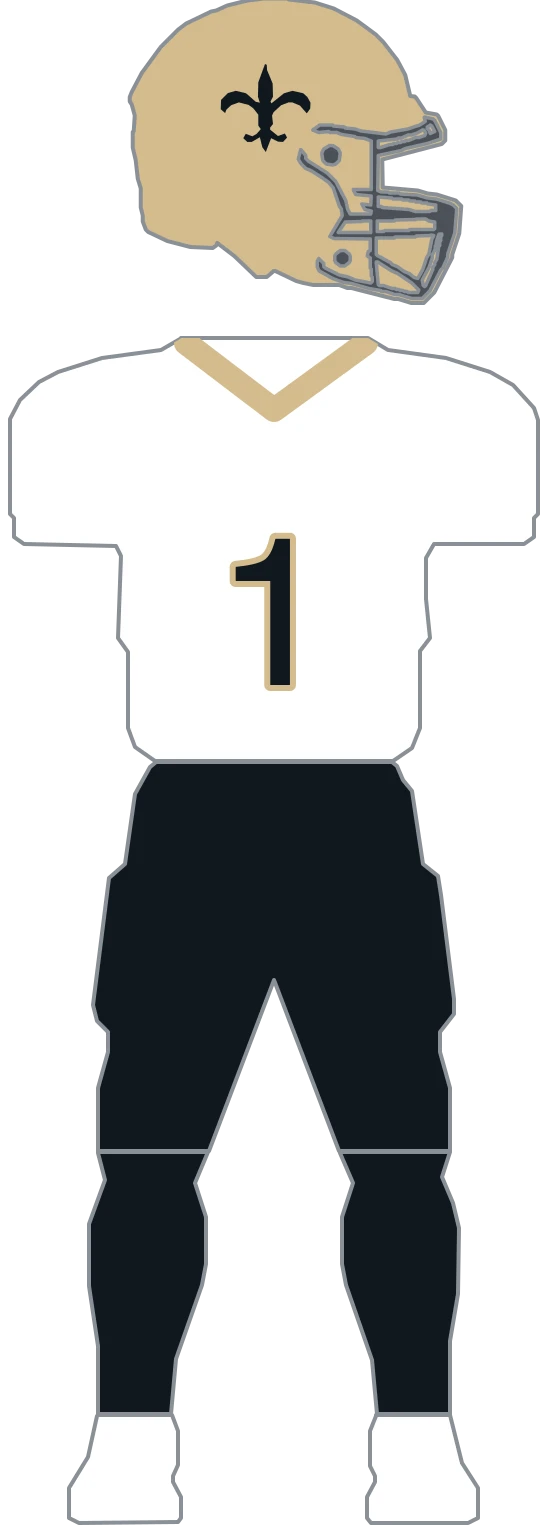
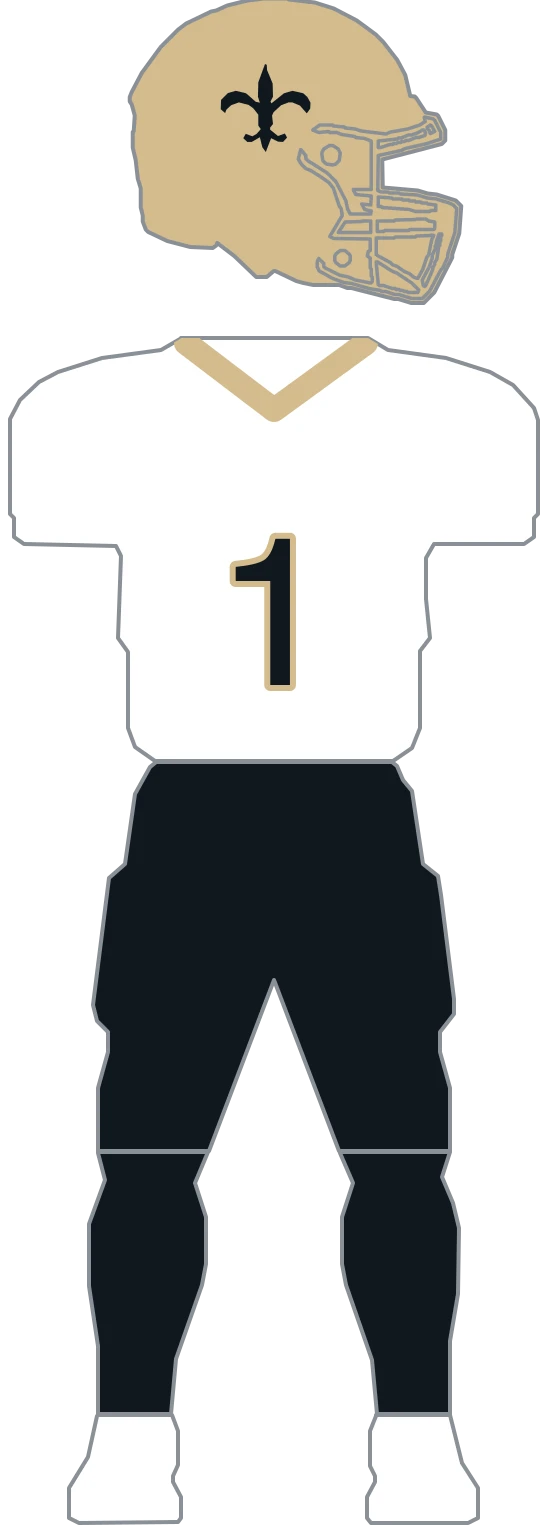
feat(uniforms): migrate Saints to composable parts and set its gold facemask (#679)
The construction is unusually spare: no sleeve bands, no shoulder yoke, no
pant stripe — what carries the uniform is a bold gold V-collar, gold numerals,
and the black fleur-de-lis on the shell. The three kits combine only two
jerseys and two pants: home and color-rush both wear a BLACK body (home over
gold pants, color-rush over black), and away is the white body (over black).
Parts express that: 1 helmet (H1 gold shell + fleur), 2 jerseys (J1 black, J2
white), 2 pants (P1 gold, P2 black), matching the measured target. Gold is the
shell/body color carried in different primary/secondary/accent slots per row;
parts name those from a team palette.

The migration's parity gate proved all 9 saints rasters (3 kits x 2 variants)
byte-identical against the flat definition, then the flat definition and its
builder helpers were deleted and the team removed from MIGRATED, per the
one-time-proof lifecycle (depth#660).

Facemask follows the parts migration per phase order: the gold shell wears a
gold cage (named sources; GUD cannot separate a gold cage from the gold shell,
so the named source and the team's gold #D3BC8D are the source of truth). Only
the three -full rasters move, each change confined to its helmet region
(verified pixel-diffed).

Changed region(s): [[0.5768, 0.0612, 0.8196, 0.1837], [0.5464, 0.0919, 0.6071, 0.1225], [0.7286, 0.1837, 0.7589, 0.2143]]

diff --git a/lib/uniforms/teams/saints.ts b/lib/uniforms/teams/saints.ts
@@ -1,18 +1,13 @@
-import type { ColorRef, TeamUniformDefinition, UniformLayer } from './types';
-
-// New Orleans' three archived kits, redrawn from the Gridiron Uniform Database 2025 composite in
-// nfl-uniform-refs/saints (the black-over-gold home is that sheet's figures 5-6).
-//
-// The construction is unusually spare: no sleeve bands, no shoulder yoke, no pant stripe on the
-// home kit. What carries the uniform is a bold gold V-collar and gold numerals, so every kit here
-// strips the generic model down to that collar.
+// New Orleans' construction geometry — the fleur-de-lis path and the collar-width constant
+// only. The composable parts definition that consumes them lives in ./saints.parts.ts; the former
+// flat SAINTS_UNIFORMS was deleted in the migration that proved parts render byte-identically (see
+// parts-parity.test.ts for the one-time gate).
 
 // The fleur-de-lis, traced from the home figure's shell (bbox x59-165, y74-171 in the reference)
-// mapped onto the raw helmet space at ~6.25x. This module previously claimed the mark was too fine
-// to trace; that was wrong. It is a solid black shape and traces cleanly — what is genuinely too
-// fine is the white line the reference draws INSIDE it, which is barely two px and has no
-// separable predicate. So the shape is authored as one solid fill with that line dropped, which at
-// swatch size is indistinguishable and at 4x reads as a slightly bolder fleur.
+// mapped onto the raw helmet space at ~6.25x. It is a solid black shape and traces cleanly — what
+// is genuinely too fine is the white line the reference draws INSIDE it, which is barely two px
+// and has no separable predicate. So the shape is authored as one solid fill with that line
+// dropped, which at swatch size is indistinguishable and at 4x reads as a slightly bolder fleur.
 export const SAINTS_DECAL_PATH =
   'M409.8,196.2 L413.0,197.5 L413.6,208.1 L424.8,235.1 L425.5,261.5 L420.5,270.9 L422.3,274.7 L447.4,254.6 L464.2,249.6 L486.1,254.6 L494.3,262.1 L500.5,273.4 L499.9,285.4 L493.0,294.8 L479.3,279.1 L464.2,272.8 L456.7,272.8 L441.7,278.5 L426.7,292.3 L423.6,299.2 L425.5,316.1 L419.8,323.0 L419.8,327.4 L435.5,340.0 L449.2,335.0 L453.6,343.1 L445.5,351.9 L435.5,351.3 L421.7,344.4 L411.1,372.0 L404.2,362.6 L399.2,342.5 L382.9,351.9 L374.2,351.9 L366.0,344.4 L371.0,335.6 L384.2,340.6 L392.9,335.6 L401.1,326.2 L396.1,319.3 L396.1,297.3 L386.1,284.7 L376.7,277.8 L357.3,272.8 L341.7,278.5 L332.3,287.3 L329.8,294.2 L321.0,286.6 L321.6,267.8 L335.4,254.0 L351.0,249.6 L371.7,254.6 L391.1,271.6 L399.2,273.4 L395.4,261.5 L396.1,232.6 L409.2,196.8 Z';
 
@@ -24,77 +19,3 @@ export const SAINTS_WHITE = '#FFFFFF';
 // whose jersey spans 186 to a 241 sleeve hem, which is about 24 units in mannequin space — nearly
 // twice the generic chevron's 13.
 export const SAINTS_COLLAR_WIDTH = 24;
-
-const COLLAR_PATH = 'M206,388 L294,455 L386,388';
-const GENERIC_STRIPPED = [
-  'generic-helmet-stripe',
-  'generic-sleeve-yoke-left',
-  'generic-sleeve-yoke-right',
-  'generic-sleeve-stripe-left',
-  'generic-sleeve-stripe-right',
-  'generic-collar',
-  'generic-pants-stripe-left',
-  'generic-pants-stripe-right',
-];
-
-function collar(stroke: ColorRef): UniformLayer[] {
-  return [
-    {
-      id: 'saints-collar',
-      surface: 'collar',
-      d: COLLAR_PATH,
-      clip: true,
-      kind: 'stroke',
-      stroke,
-      strokeWidth: SAINTS_COLLAR_WIDTH,
-    },
-  ];
-}
-
-// The fleur is black on every kit; only which token carries black moves with the palette.
-function decal(fill: ColorRef): UniformLayer[] {
-  return [
-    {
-      id: 'saints-decal',
-      surface: 'helmet',
-      d: SAINTS_DECAL_PATH,
-      clip: true,
-      kind: 'fill',
-      fill,
-    },
-  ];
-}
-
-export const SAINTS_UNIFORMS: TeamUniformDefinition = {
-  teamId: 'saints',
-  kits: {
-    // ESPN gives New Orleans color=old gold / alternateColor=black. `isNeutral(black)` is true, so
-    // toTeamColors leaves primary as the gold — and the generic model paints helmet, jersey AND
-    // pants from primary, rendering the Saints head-to-toe gold. Only the jersey is wrong: the
-    // reference home kit is a black jersey under a gold shell over gold pants, so helmet and pants
-    // keep primary and only the body is pinned to secondary. Same defect as Cincinnati, Pittsburgh
-    // and Atlanta; a sweep of all 32 teams found those four and no others.
-    home: {
-      jerseyColor: 'secondary',
-      removeLayerIds: GENERIC_STRIPPED,
-      layers: [...collar('primary'), ...decal('secondary')],
-      number: { fill: 'primary', outline: SAINTS_WHITE, outlineWidth: 12 },
-    },
-    // White body under the same gold shell, over the black pants the reference shows.
-    away: {
-      helmetColor: 'secondary',
-      pantsColor: 'accent',
-      removeLayerIds: GENERIC_STRIPPED,
-      layers: [...collar('secondary'), ...decal('accent')],
-      number: { fill: 'accent', outline: 'secondary', outlineWidth: 12 },
-    },
-    // Color Rush is black on black; its palette already stores black as primary, so only the gold
-    // shell needs restating.
-    'color-rush': {
-      helmetColor: 'secondary',
-      removeLayerIds: GENERIC_STRIPPED,
-      layers: [...collar('secondary'), ...decal('primary')],
-      number: { fill: 'secondary', outline: SAINTS_WHITE, outlineWidth: 12 },
-    },
-  },
-};

diff --git a/lib/uniforms/teams/saints.parts.ts b/lib/uniforms/teams/saints.parts.ts
@@ -1,0 +1,95 @@
+// New Orleans authored as composable parts. Geometry is imported unchanged from saints.ts — this
+// file only restates WHICH parts each kit combines, and names every color from the team palette
+// instead of the kit row's shifting primary/secondary/accent.
+//
+// The construction is unusually spare: no sleeve bands, no shoulder yoke, no pant stripe — what
+// carries the uniform is a bold gold V-collar and gold numerals, plus the black fleur-de-lis on
+// the shell. The three kits combine only two jerseys and two pants: home and color-rush both wear
+// a BLACK body (home over gold pants, color-rush over black), and away is the white body (over
+// black). The fleur is black on every kit.
+
+import { SAINTS_COLLAR_WIDTH, SAINTS_DECAL_PATH } from './saints';
+import { compileParts, type PartLayer, type TeamPartsDefinition, type UniformPart } from './parts';
+
+const COLLAR_PATH = 'M206,388 L294,455 L386,388';
+
+// The gold V-collar — the same bold band on every kit.
+function collar(stroke: string): PartLayer[] {
+  return [
+    {
+      id: 'saints-collar',
+      surface: 'collar',
+      d: COLLAR_PATH,
+      clip: true,
+      kind: 'stroke',
+      stroke,
+      strokeWidth: SAINTS_COLLAR_WIDTH,
+    },
+  ];
+}
+
+// The black shell with the fleur-de-lis (black, one solid fill — the interior white line is too
+// fine to trace, see saints.ts) — one object, shared by every kit.
+//
+// Gold cage. The Saints' gold shell carries a gold facemask (named sources; the GUD composite
+// cannot separate a gold cage from the same-toned shell, so the named source and the team's gold
+// #D3BC8D are the source of truth). The shared neutral #4b5158 it replaces is a grey smudge
+// against the gold.
+const HELMET_GOLD_FLEUR: UniformPart = {
+  base: 'gold',
+  facemask: 'gold',
+  layers: [
+    {
+      id: 'saints-decal',
+      surface: 'helmet',
+      d: SAINTS_DECAL_PATH,
+      clip: true,
+      kind: 'fill',
+      fill: 'black',
+    },
+  ],
+};
+
+// Black jersey (home + color-rush): gold collar, gold numerals keylined white.
+const JERSEY_BLACK: UniformPart = {
+  base: 'black',
+  layers: collar('gold'),
+  number: { fill: 'gold', outline: 'white', outlineWidth: 12 },
+};
+
+// White jersey (away): gold collar, black numerals keylined gold.
+const JERSEY_WHITE: UniformPart = {
+  base: 'white',
+  layers: collar('gold'),
+  number: { fill: 'black', outline: 'gold', outlineWidth: 12 },
+};
+
+// Home pants, gold.
+const PANTS_GOLD: UniformPart = { base: 'gold', layers: [] };
+
+// Black pants (away + color-rush).
+const PANTS_BLACK: UniformPart = { base: 'black', layers: [] };
+
+export const SAINTS_PARTS: TeamPartsDefinition = {
+  teamId: 'saints',
+  // Jersey hexes from the curated rows (teamcolorcodes). Gold is the shell/body color carried in
+  // different primary/secondary/accent slots per row; black is home/away/crush's shared body.
+  palette: {
+    gold: '#D3BC8D',
+    black: '#101820',
+    white: '#FFFFFF',
+  },
+  helmets: { 'gold-fleur': HELMET_GOLD_FLEUR },
+  jerseys: {
+    black: JERSEY_BLACK,
+    white: JERSEY_WHITE,
+  },
+  pants: { gold: PANTS_GOLD, black: PANTS_BLACK },
+  kits: {
+    home: { helmet: 'gold-fleur', jersey: 'black', pants: 'gold' },
+    away: { helmet: 'gold-fleur', jersey: 'white', pants: 'black' },
+    'color-rush': { helmet: 'gold-fleur', jersey: 'black', pants: 'black' },
+  },
+};
+
+export const SAINTS_UNIFORMS_FROM_PARTS = compileParts(SAINTS_PARTS);

diff --git a/lib/uniforms/teams/index.ts b/lib/uniforms/teams/index.ts
@@ -25,7 +25,7 @@ import { RAIDERS_UNIFORMS_FROM_PARTS } from './raiders.parts';
 import { PACKERS_UNIFORMS } from './packers';
 import { RAMS_UNIFORMS } from './rams';
 import { RAVENS_UNIFORMS } from './ravens';
-import { SAINTS_UNIFORMS } from './saints';
+import { SAINTS_UNIFORMS_FROM_PARTS } from './saints.parts';
 import { SEAHAWKS_UNIFORMS_FROM_PARTS } from './seahawks.parts';
 import { STEELERS_UNIFORMS_FROM_PARTS } from './steelers.parts';
 import { TEXANS_UNIFORMS } from './texans';
@@ -64,7 +64,7 @@ const DEFINITIONS: Readonly<Partial<Record<string, TeamUniformDefinition>>> = {
   raiders: RAIDERS_UNIFORMS_FROM_PARTS,
   rams: RAMS_UNIFORMS,
   ravens: RAVENS_UNIFORMS,
-  saints: SAINTS_UNIFORMS,
+  saints: SAINTS_UNIFORMS_FROM_PARTS,
   seahawks: SEAHAWKS_UNIFORMS_FROM_PARTS,
   steelers: STEELERS_UNIFORMS_FROM_PARTS,
   texans: TEXANS_UNIFORMS,
